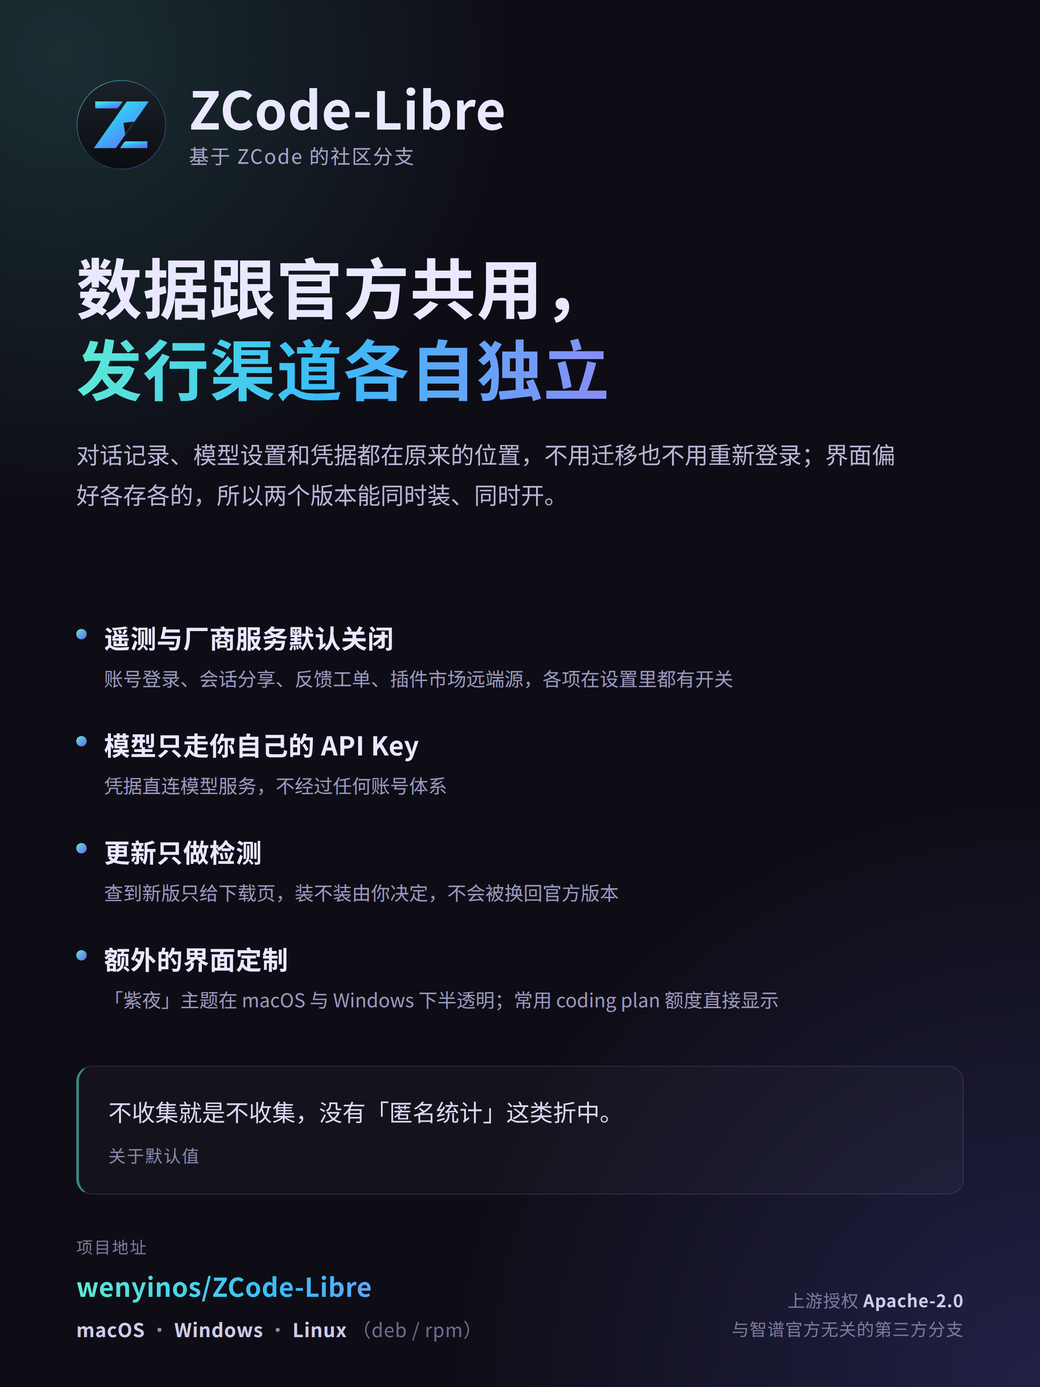
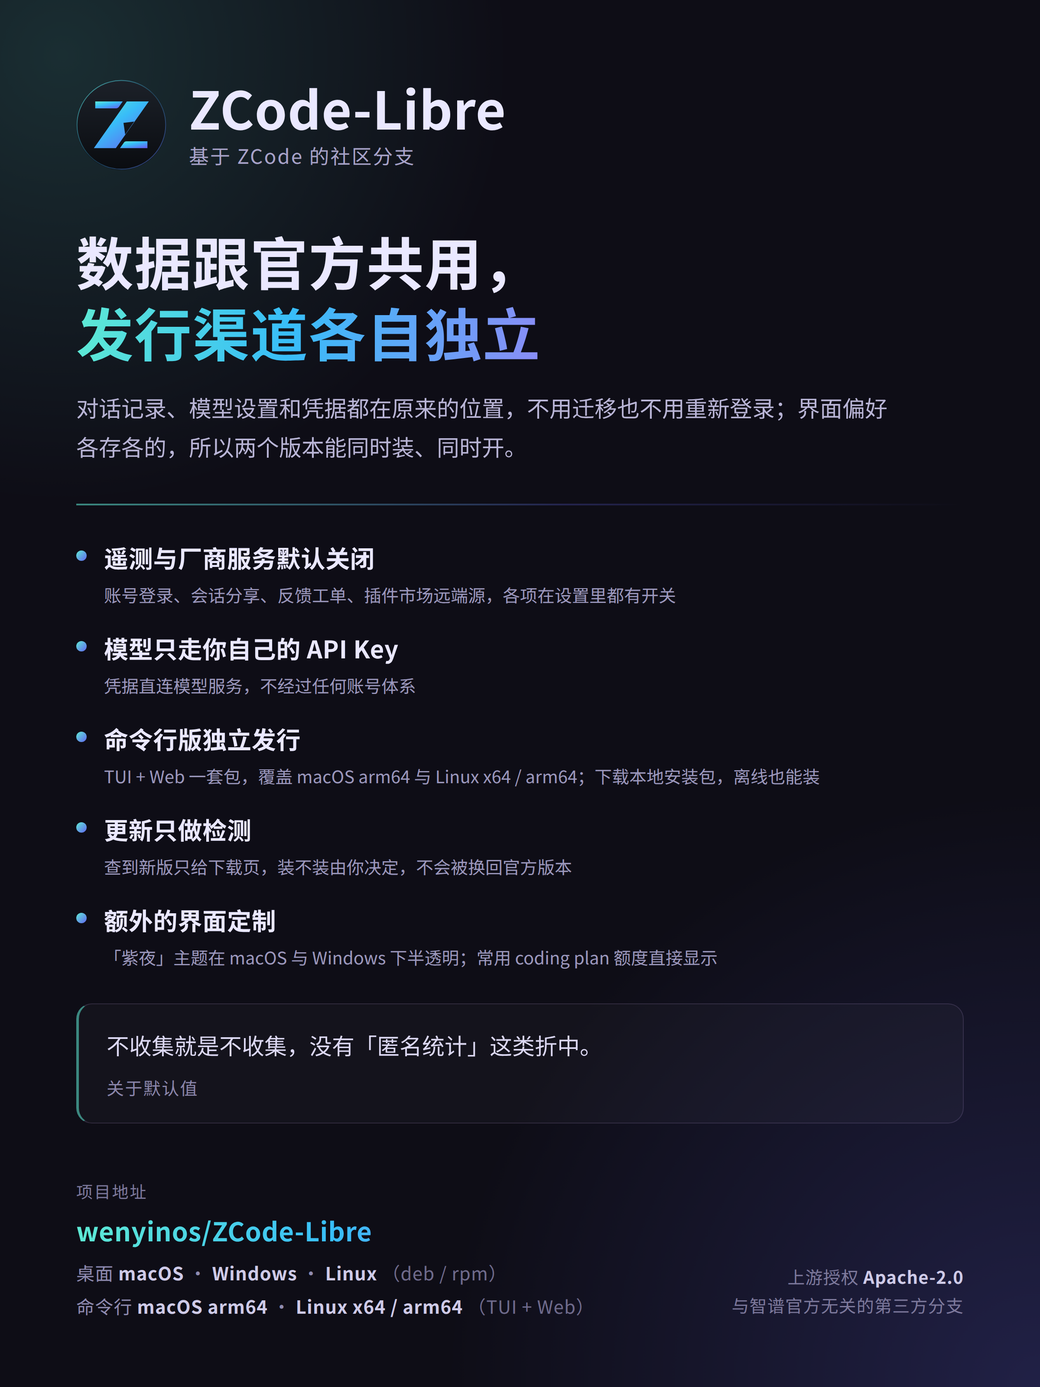
docs: 重制项目海报并在站点补充命令行版
海报新增「命令行版独立发行」要点，页脚区分桌面与命令行的平台覆盖（macOS arm64、
Linux x64/arm64）；站点「相对上游多做的事」加同名卡片，并新增「命令行版
（TUI + Web）」章节，写明下载本地包离线安装的两种用法。

海报仍由 docs/promo/poster.html 排版后经 Chrome headless 渲染（2400×3200，
预览图 1040 宽），README 中英文的 alt 文案同步更新。

diff --git a/docs/index.html b/docs/index.html
@@ -319,11 +319,12 @@
           <h1 data-zh>ZCode 的<em>社区分支</em>，只做该做的改动</h1>
           <h1 data-en hidden>An independent <em>community fork</em> of ZCode</h1>
           <p class="lead" data-zh>
-            保留完整功能与上游可同步性；遥测与厂商服务默认关闭，模型用你自己的 API Key 直接接入，会话与设置仍与官方客户端共用同一份数据。
+            保留完整功能与上游可同步性；遥测与厂商服务默认关闭，模型用你自己的 API Key 直接接入，会话与设置仍与官方客户端共用同一份数据；另提供独立的命令行版（TUI + Web）。
           </p>
           <p class="lead" data-en hidden>
             Full upstream feature set, kept in sync. Telemetry and vendor services are off by default,
             models connect with your own API key, and sessions stay shared with the official client.
+            A standalone CLI (TUI + Web) is released alongside the desktop build.
           </p>
           <div class="cta">
             <a class="btn btn-primary" href="https://github.com/wenyinos/ZCode-Libre/releases">
@@ -379,6 +380,11 @@
               <p data-zh>检测本仓库的 Release 并引导你前往下载，不在应用内下载或安装——避免被装回官方版本。</p>
               <p data-en hidden>Detects a newer release and sends you to the download page. Nothing is installed in-app, so you can never be silently switched back to upstream.</p>
             </div>
+            <div class="card">
+              <h3><span class="dot"></span><span data-zh>命令行版独立发行</span><span data-en hidden>Standalone CLI</span></h3>
+              <p data-zh>与桌面版同版本号的 TUI + Web 独立发行包，覆盖 macOS arm64 与 Linux x64 / arm64；下载安装包后离线即可安装。</p>
+              <p data-en hidden>A TUI + Web bundle released alongside the desktop build under the same version, covering macOS arm64 and Linux x64/arm64. Install offline from a downloaded tarball.</p>
+            </div>
           </div>
         </section>
 
@@ -413,6 +419,21 @@
               <td data-en hidden>The <code>zcode://</code> scheme, <code>@zcode/*</code> scopes, <code>ZCODE_*</code> variables and the <code>.zcode</code> directory intentionally match upstream.</td>
             </tr>
           </table>
+        </section>
+
+        <section>
+          <h2 data-zh>命令行版（TUI + Web）</h2>
+          <h2 data-en hidden>CLI (TUI + Web)</h2>
+          <p class="section-note" data-zh>与桌面版同版本号、独立发行，覆盖 macOS arm64 与 Linux x64 / arm64，需要 Node.js 24。从 <a href="https://github.com/wenyinos/ZCode-Libre/releases">Releases</a> 下载 <code>zcode-&lt;版本&gt;.tar.gz</code> 后在本机安装，全程不需要联网：</p>
+          <p class="section-note" data-en hidden>Released independently under the same version as the desktop build, covering macOS arm64 and Linux x64/arm64; Node.js 24 required. Download <code>zcode-&lt;version&gt;.tar.gz</code> from <a href="https://github.com/wenyinos/ZCode-Libre/releases">Releases</a> and install it locally — no network needed:</p>
+          <pre><code>tar -xzf zcode-*.tar.gz
+node zcode/bin/zcode.mjs        # TUI
+node zcode/bin/zcode.mjs --web  # Web UI
+
+# 安装到 ~/.zcode/runtime 并生成 zcode 命令 / install and get the zcode command
+sh install.sh --tarball ./zcode-*.tar.gz
+zcode        # TUI
+zcode --web  # Web UI</code></pre>
         </section>
 
         <section>

diff --git a/docs/promo/poster.html b/docs/promo/poster.html
@@ -53,8 +53,8 @@
       }
 
       .headline {
-        margin-top: 86px;
-        font-size: 76px;
+        margin-top: 64px;
+        font-size: 66px;
         font-weight: 700;
         line-height: 1.24;
         letter-spacing: 1px;
@@ -67,15 +67,15 @@
         color: transparent;
       }
       .sub {
-        margin-top: 30px;
-        font-size: 27px;
+        margin-top: 24px;
+        font-size: 26px;
         line-height: 1.72;
         color: #b9b5d6;
         max-width: 950px;
       }
 
       .rule {
-        margin: 64px 0 56px;
+        margin: 44px 0 40px;
         height: 2px;
         width: 100%;
         background: linear-gradient(
@@ -89,7 +89,7 @@
       .points {
         display: flex;
         flex-direction: column;
-        gap: 38px;
+        gap: 26px;
       }
       .point {
         display: flex;
@@ -106,22 +106,22 @@
       }
       .point b {
         display: block;
-        font-size: 30px;
+        font-size: 28px;
         font-weight: 600;
         letter-spacing: 0.4px;
       }
       .point span {
         display: block;
-        margin-top: 8px;
-        font-size: 22px;
+        margin-top: 7px;
+        font-size: 20px;
         line-height: 1.55;
         color: #9c98bd;
       }
 
       /* 引文卡片：填住要点与页脚之间的空间，也给版面一个重心 */
       .quote {
-        margin-top: 60px;
-        padding: 30px 34px;
+        margin-top: 38px;
+        padding: 26px 32px;
         border-radius: 18px;
         border: 1px solid rgba(196, 167, 231, 0.16);
         border-left: 3px solid rgba(94, 234, 212, 0.55);
@@ -129,7 +129,7 @@
       }
       .quote p {
         margin: 0;
-        font-size: 27px;
+        font-size: 26px;
         line-height: 1.6;
         color: #dcd8f2;
       }
@@ -144,16 +144,19 @@
 
       .foot {
         margin-top: auto;
-        padding-top: 46px;
+        padding-top: 32px;
         display: flex;
         align-items: flex-end;
         justify-content: space-between;
         gap: 40px;
       }
       .platforms {
-        font-size: 22px;
+        font-size: 21px;
         color: #8f8bb0;
         letter-spacing: 0.6px;
+      }
+      .platforms + .platforms {
+        margin-top: 8px;
       }
       .platforms strong {
         color: #cfcbe8;
@@ -278,6 +281,13 @@
       <div class="point">
         <div class="dot"></div>
         <div>
+          <b>命令行版独立发行</b>
+          <span>TUI + Web 一套包，覆盖 macOS arm64 与 Linux x64 / arm64；下载本地安装包，离线也能装</span>
+        </div>
+      </div>
+      <div class="point">
+        <div class="dot"></div>
+        <div>
           <b>更新只做检测</b>
           <span>查到新版只给下载页，装不装由你决定，不会被换回官方版本</span>
         </div>
@@ -301,8 +311,12 @@
         <div class="repo-label">项目地址</div>
         <div class="repo">wenyinos/ZCode-Libre</div>
         <div class="platforms">
-          <strong>macOS</strong> · <strong>Windows</strong> · <strong>Linux</strong>
+          桌面 <strong>macOS</strong> · <strong>Windows</strong> · <strong>Linux</strong>
           <em>（deb / rpm）</em>
+        </div>
+        <div class="platforms">
+          命令行 <strong>macOS arm64</strong> · <strong>Linux x64 / arm64</strong>
+          <em>（TUI + Web）</em>
         </div>
       </div>
       <div class="license">

diff --git a/README.en.md b/README.en.md
@@ -18,7 +18,7 @@ ZCode-Libre is a community fork of [ZCode](https://github.com/zai-org/ZCode), fo
 
 <div align="center">
   <a href="docs/promo/intro-poster.png">
-    <img src="docs/promo/intro-poster-preview.png" alt="ZCode-Libre project overview" width="520" />
+    <img src="docs/promo/intro-poster-preview.png" alt="ZCode-Libre project overview: desktop and CLI" width="520" />
   </a>
   <br />
   <a href="https://wenyinos.github.io/ZCode-Libre/">wenyinos.github.io/ZCode-Libre</a>
